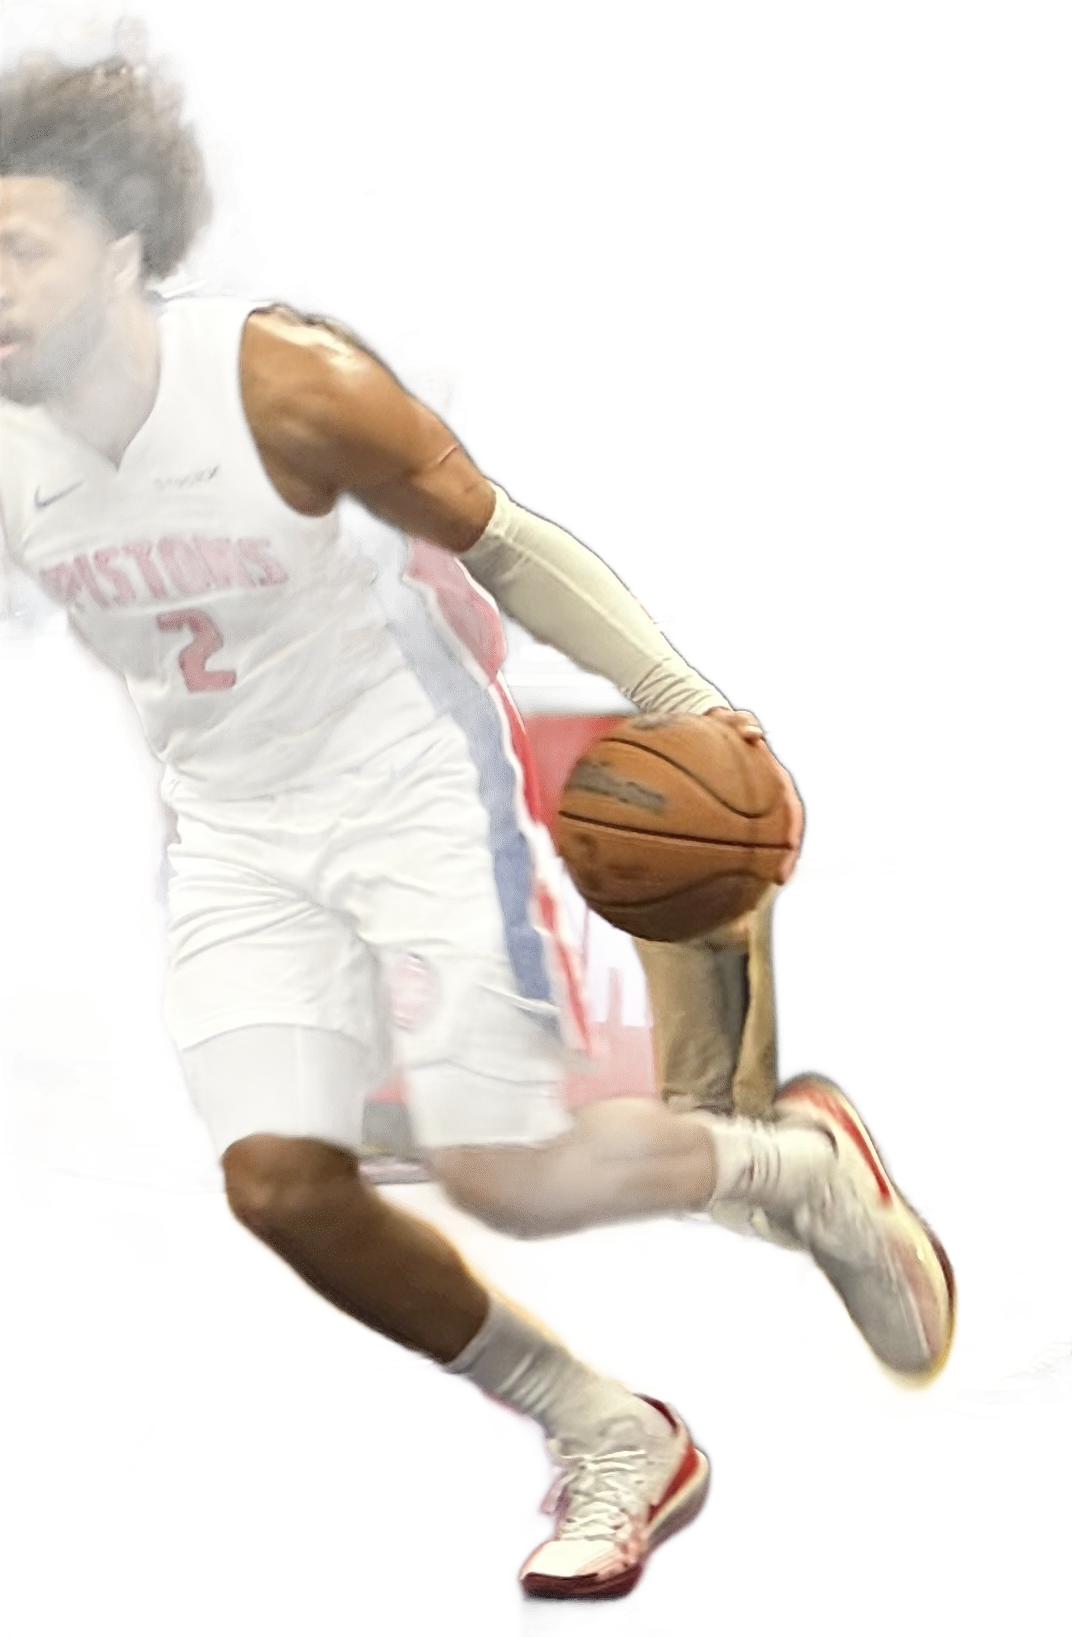
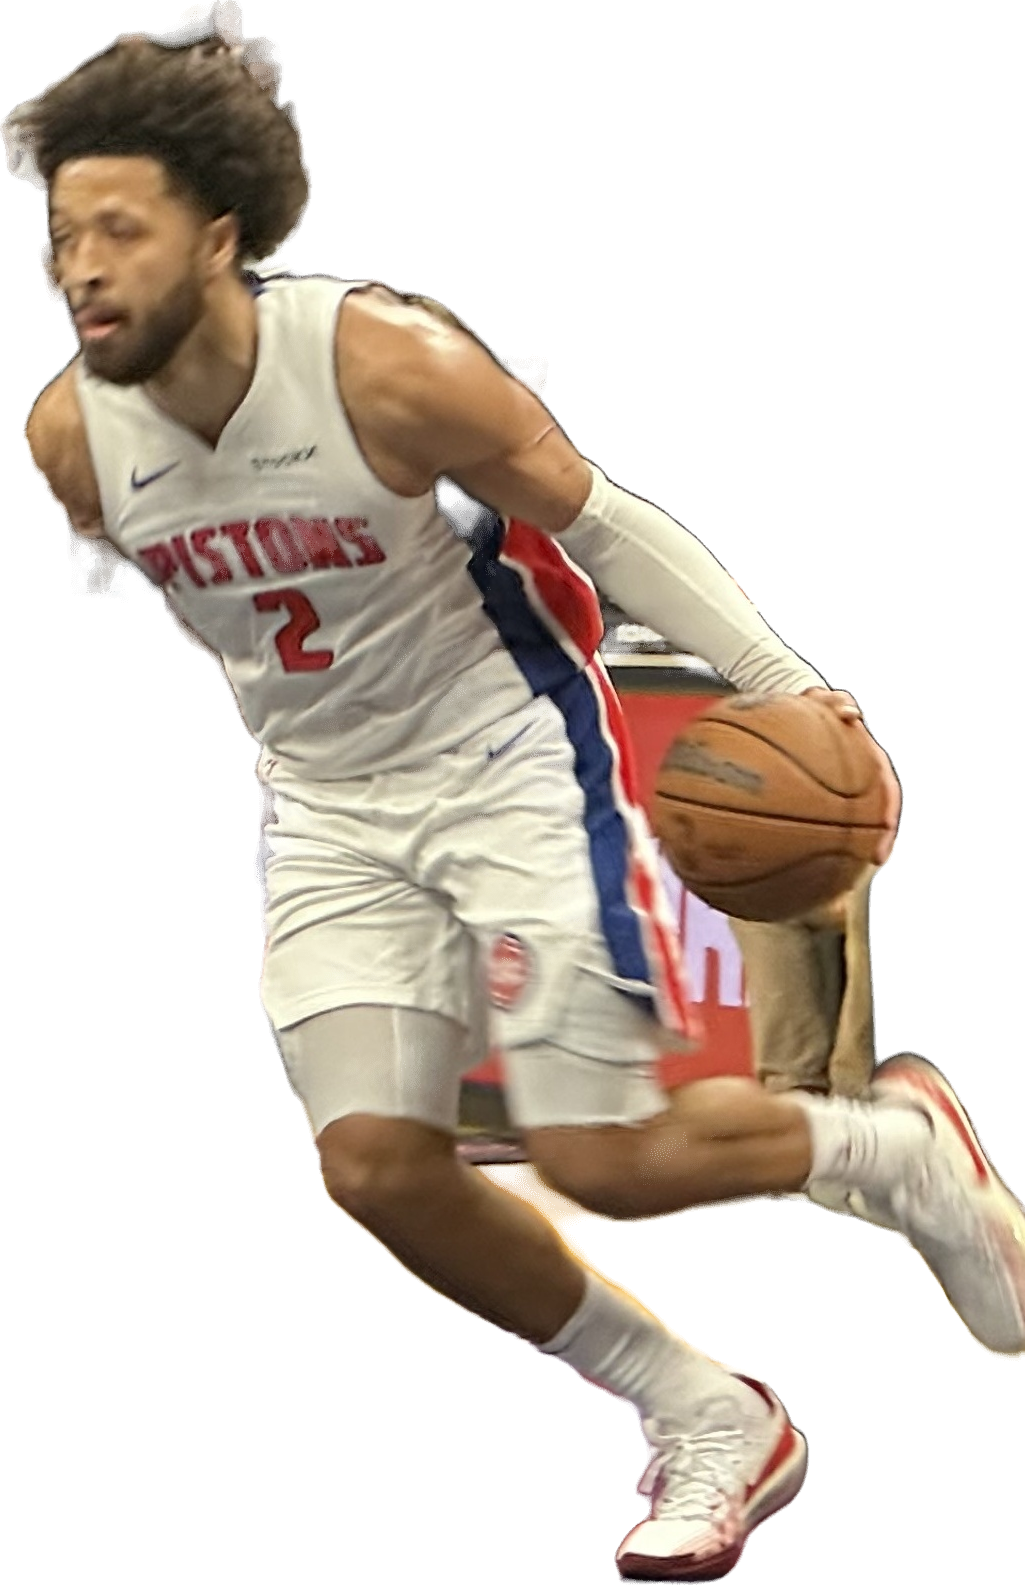
Créneau 1 du 15/11 : post Cade republié (tête entière, détourage opaque) ; détourage renforcé pour tous ; contrôle du recadrage dans la procédure

diff --git a/tools/produire.py b/tools/produire.py
@@ -89,6 +89,8 @@ def preparer_photo(cle, spec, id_):
     brut = dossier / f"brut-{cle}.png"
     subprocess.run(["node", str(TOOLS / "cutout.mjs"), str(src_cut), str(brut)], check=True, capture_output=True, timeout=600)
     a = Image.open(brut).convert("RGBA").getchannel("A")
+    # foule ou fond chargé : le modèle rend un alpha à moitié transparent, on le remonte (joueur opaque, bords doux)
+    a = a.point(lambda v: 0 if v < 30 else min(255, int((v - 30) * 255 / 110)))
     rgba = Image.open(src_cut).convert("RGBA")
     rgba.putalpha(a)
     bbox = a.point(lambda v: 255 if v > 20 else 0).getbbox()

diff --git a/automatisation/QUOTIDIEN.md b/automatisation/QUOTIDIEN.md
@@ -46,7 +46,7 @@ Tu décides seul : sujet, verdict, mise en page, montage, voix, légendes. Perso
 
 1. Toutes les 2 minutes, `git pull` jusqu'à voir `produit/<id>.json` (8 à 10 minutes).
 2. `"ok": false` : lis `erreurs` (et l'image `_refuse` si elle existe), corrige la commande (cadre, textes, recadrage, photo), pousse-la de nouveau. Une correction déclenche une nouvelle production.
-3. `"ok": true` : regarde `produit/<id>-apercu.jpg` avec Read, comme un directeur artistique. Post, couverture du Reel, deux détourages. Refuse si : un autre joueur dans le détourage, visage mal détouré, texte illisible, faute, faits faux.
+3. `"ok": true` : regarde `produit/<id>-apercu.jpg` avec Read, comme un directeur artistique. Post, couverture du Reel, deux détourages. Refuse si : un autre joueur dans le détourage, un bord vertical net qui coupe le joueur (recadrage trop serré : la tête et les épaules doivent être entières), un joueur pâle ou transparent, visage mal détouré, texte illisible, faute, faits faux.
 4. Refus après production : `git rm a_publier/<id>-*.json`, commit, push (la publication est annulée) ; corrige avec une **nouvelle** commande (nouvel `id`, nouvelles photos si besoin).
 5. Sinon, ne touche à rien : la publication attend l'heure et part seule (post 10 minutes avant le Reel).
 
